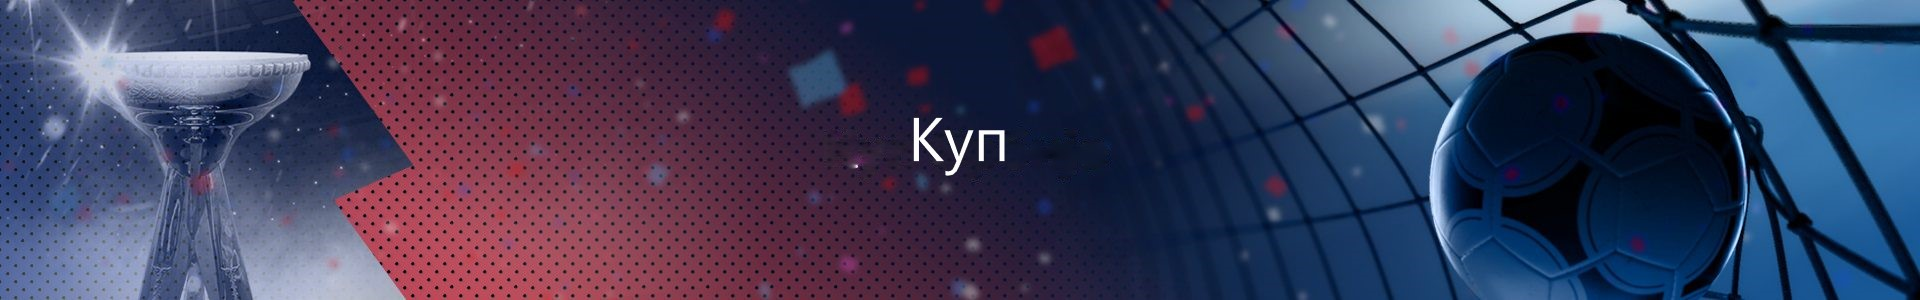
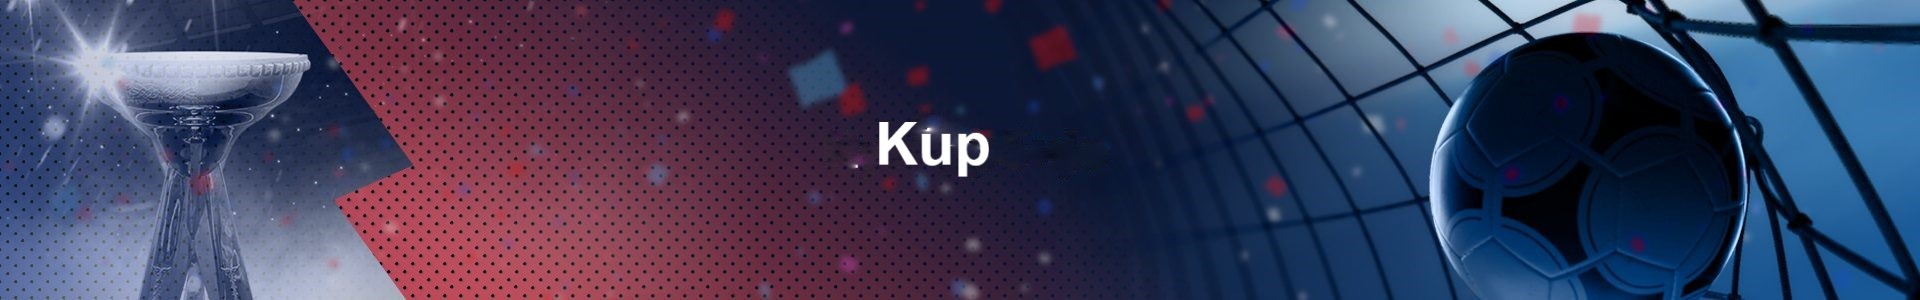
Odradjeno sve
1. preimenovanje
2. testiranje sezone
3.kolapsovano poslednje kolo
4. cirilica u latinicu

Changed region(s): [[0.4375, 0.39, 0.5312, 0.6]]

diff --git a/fudbalski_savez_django/fudbal/templates/fudbal/base.html b/fudbalski_savez_django/fudbal/templates/fudbal/base.html
@@ -5,7 +5,7 @@
 <html lang="en">
 
 <head>
-    <title>Fudbalski savez opstine Sokobanja</title>
+    <title>Fudbalski savez opštine soko banja</title>
     <meta charset="utf-8">
     <meta name="viewport" content="width=device-width, initial-scale=1">
     <link rel="stylesheet" href="https://maxcdn.bootstrapcdn.com/bootstrap/4.3.1/css/bootstrap.min.css">
@@ -35,19 +35,19 @@
                 <ul class="navbar-nav ">
                     <li class="nav-item dropdown">
                         <a class="nav-link dropdown-toggle" href="#" id="navbardrop" data-toggle="dropdown">
-                            САВЕЗ
+                            SAVEZ
                         </a>
                         <div class="dropdown-menu bg-blue border border-0">
                             <a class="dropdown-item bg-blue blue-hover text-white" href="{% url 'o_savezu' %}">O
-                                Савезу</a>
+                                Savezu</a>
                             <a class="dropdown-item bg-blue blue-hover text-white"
-                                href="{% url 'rukovodstvo' %}">Руководство</a>
-                            <a class="dropdown-item bg-blue blue-hover text-white" href="{% url 'propisi'%}">Прописи</a>
+                                href="{% url 'rukovodstvo' %}">Rukovodstvo</a>
+                            <a class="dropdown-item bg-blue blue-hover text-white" href="{% url 'propisi'%}">Propisi</a>
                         </div>
 
                     <li class="nav-item dropdown">
                         <a class="nav-link dropdown-toggle" href="#" id="navbardrop" data-toggle="dropdown">
-                            ОПШТИНСКА ФУДБАЛСКА ЛИГА
+                            OPŠTINSKA FUDBALSKA LIGA
                         </a>
                         <div class="dropdown-menu bg-blue border border-0 ">
                             <a class="dropdown-item bg-blue blue-hover text-white" href="{% url 'liga_rezultati' %}">
@@ -59,29 +59,30 @@
                     </li>
                     <li class="nav-item dropdown">
                         <a class="nav-link dropdown-toggle" href='#' id='navbardrop' data-toggle="dropdown">
-                            Kup
+                            KUP
                         </a>
                         <div class="dropdown-menu bg-blue border border-0 ">
-                            <a class="dropdown-item bg-blue blue-hover text-white" href="{% url 'kup' %}">Kуп</a>
+                            <a class="dropdown-item bg-blue blue-hover text-white" href="{% url 'kup' %}">Rezultati</a>
                         </div>
                     </li>
                     <li class="nav-item dropdown">
                         <a class="nav-link dropdown-toggle" href="#" id="navbardrop" data-toggle="dropdown">
-                            СУДИЈЕ
+                            SUDIJE
                         </a>
                         <div class="dropdown-menu bg-blue border border-0">
                             <a class="dropdown-item bg-blue blue-hover text-white"
-                                href="{% url 'deligiranje_sudija' %}">Делигирање судија</a>
-                            <a class="dropdown-item bg-blue blue-hover text-white" href="{% url 'lista_sudija' %}">Листа
-                                судија</a>
+                                href="{% url 'deligiranje_sudija' %}">Deligiranje sudija</a>
+                            <a class="dropdown-item bg-blue blue-hover text-white" href="{% url 'lista_sudija' %}">Lista
+                                sudija
+                            </a>
 
                         </div>
                     </li>
                     <li class="nav-item">
-                        <a class="nav-link" href="{% url 'vesti' %}">ВЕСТИ</a>
+                        <a class="nav-link" href="{% url 'vesti' %}">VESTI</a>
                     </li>
                     <li class="nav-item">
-                        <a class="nav-link" href="{% url 'gallery' %}">ГАЛЕРИЈА</a>
+                        <a class="nav-link" href="{% url 'gallery' %}">GALERIJA</a>
                     </li>
                 </ul>
             </div>
@@ -93,7 +94,7 @@
     {% endblock %}
 
     <div class="jumbotron text-center bg-blue mt-5">
-        <p>информације</p>
+        <p>INFORMACIJE</p>
     </div>
 </body>
 

diff --git a/fudbalski_savez_django/fudbal/templates/fudbal/liga_rezultati.html b/fudbalski_savez_django/fudbal/templates/fudbal/liga_rezultati.html
@@ -6,45 +6,18 @@
 
 <div class="container mt-5">
     <div id="accordion">
-        {% for broj_utakmice in broj_utacmice_kola %}
-        {% for broj_kola, utakmice in broj_utakmice.items %}
+        {% for kolo in kola %}
+        {% for broj_kola, utakmice in kolo.items %}
         <div class="card">
             <div class="card-header">
                 <a class='card-link' data-toggle="collapse" href="#b{{broj_kola}}">
                     {{broj_kola}}.kolo
                 </a>
             </div>
-            {%if broj_kola == 4 %}
-            <div id="b{{broj_kola}}" class="collapse show" data-parent="#accordion">
-                <div class="card-body">
 
-                    <div class='container'>
-                        <table class="table">
-                            <thead>
-                                <tr>
-                                    <th>{{utakmice.first.sezona}}.sezona</th>
 
-                                </tr>
-                            <tbody>
-                                {% for utakmica in utakmice %}
-                                <tr>
-                                    <td>{{utakmica.vreme_odigravanja}} </td>
-                                    <td>{{utakmica.mesto_odigravanja}} </td>
-                                    <td>{{utakmica.domacin}} </td>
-                                    <td> {{utakmica.domacin_gol}}</td>
-                                    <td>{{utakmica.gost_gol}} </td>
-                                    <td>{{utakmica.gost}}</td>
-                                </tr>
-                                {% endfor %}
-                            </tbody>
-                        </table>
-                    </div>
-
-                </div>
-            </div>
-            {%else%}
-
-            <div id="b{{broj_kola}}" class="collapse" data-parent="#accordion">
+            <div id="b{{broj_kola}}" class="{% if broj_kola ==  kola|length  %}
+            collapse show {% else %} collapse {% endif %}" data-parent="#accordion">
                 <div class="card-body">
                     <div class='container'>
                         <table class="table table-sm">
@@ -72,8 +45,6 @@
                     </div>
                 </div>
             </div>
-
-            {%endif%}
         </div>
 
         {% endfor %}

diff --git a/fudbalski_savez_django/fudbal/templates/fudbal/deligiranje_sudija.html b/fudbalski_savez_django/fudbal/templates/fudbal/deligiranje_sudija.html
@@ -5,7 +5,7 @@
 
 </style>
 <br>
-<img src="{% static 'fudbal/images/deligiranje_sudija.jpg'%}" class="img-fluid mt-5 md-5">
+<img src="{% static 'fudbal/images/deligiranjesudija.jpg'%}" class="img-fluid mt-5 md-5">
 
 <br>
 <div class="container">

diff --git a/fudbalski_savez_django/fudbal/templates/fudbal/lista_sudija.html b/fudbalski_savez_django/fudbal/templates/fudbal/lista_sudija.html
@@ -2,7 +2,7 @@
 {% block content %}
 {%load static%}
 <br>
-<img src="{% static 'fudbal/images/lista_sudija.jpg'%}" class="img-fluid mt-5 md-5">
+<img src="{% static 'fudbal/images/listasudija.jpg'%}" class="img-fluid mt-5 md-5">
 
 
 

diff --git a/fudbalski_savez_django/fudbal/views.py b/fudbalski_savez_django/fudbal/views.py
@@ -19,21 +19,18 @@ def propisi(request):
 
 
 def liga_rezultati(request):
-    broj_sezone = Sezona.poslednja_sezona()
-
+    poslednja_sezona_int = Sezona.poslednja_sezona()
     sva_kola_sezone = Utakmica.objects.filter(
-        sezona=broj_sezone).values('kolo').distinct().order_by('-kolo')
-
-    broj_utacmice_kola = []
+        sezona=poslednja_sezona_int).values('kolo').distinct().order_by('-kolo')
+    kola_list = []
     for kolo in sva_kola_sezone:
-        utacmice_kola = {}
-        broj_key = kolo.get('kolo')
-        utakmice_izabranog_kola_value = Utakmica.objects.all().filter(
-            kolo=int(broj_key), sezona=broj_sezone)
-        utacmice_kola[broj_key] = utakmice_izabranog_kola_value
-        broj_utacmice_kola.append(utacmice_kola)
-
-    return render(request, 'fudbal/liga_rezultati.html', {'broj_utacmice_kola': broj_utacmice_kola, })
+        utacmice_kola_dct = {}
+        broj_kola_str = kolo.get('kolo')
+        utakmice_izabranog_kola = Utakmica.objects.all().filter(
+            kolo=int(broj_kola_str), sezona=poslednja_sezona_int)
+        utacmice_kola_dct[broj_kola_str] = utakmice_izabranog_kola
+        kola_list.append(utacmice_kola_dct)
+    return render(request, 'fudbal/liga_rezultati.html', {'kola': kola_list, })
 
 
 def liga_tabela(request):
